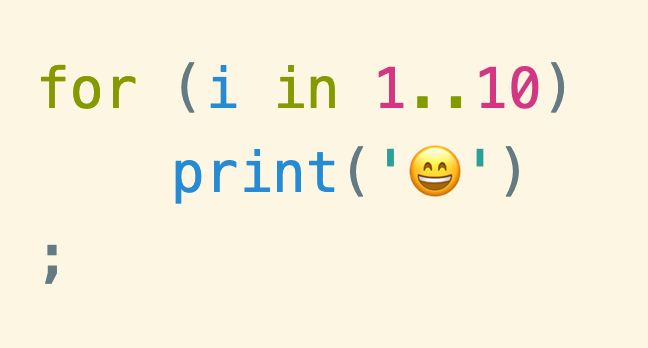
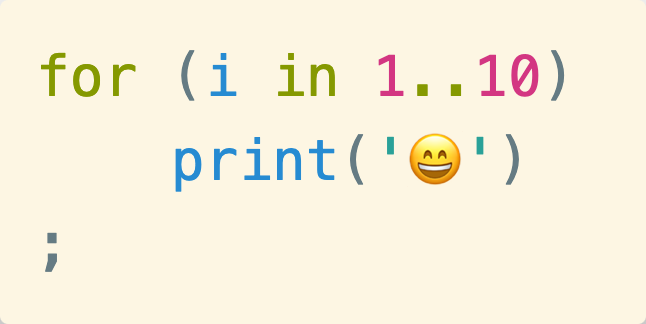
svg

diff --git a/README.md b/README.md
@@ -40,4 +40,4 @@ Chat with Mythic programmers on the community Discord.
 <br/>
 
 ## Syntax Example
-<img src="misc/example.png" alt="syntax example image">
+<img src="misc/example.svg" alt="syntax example image">
